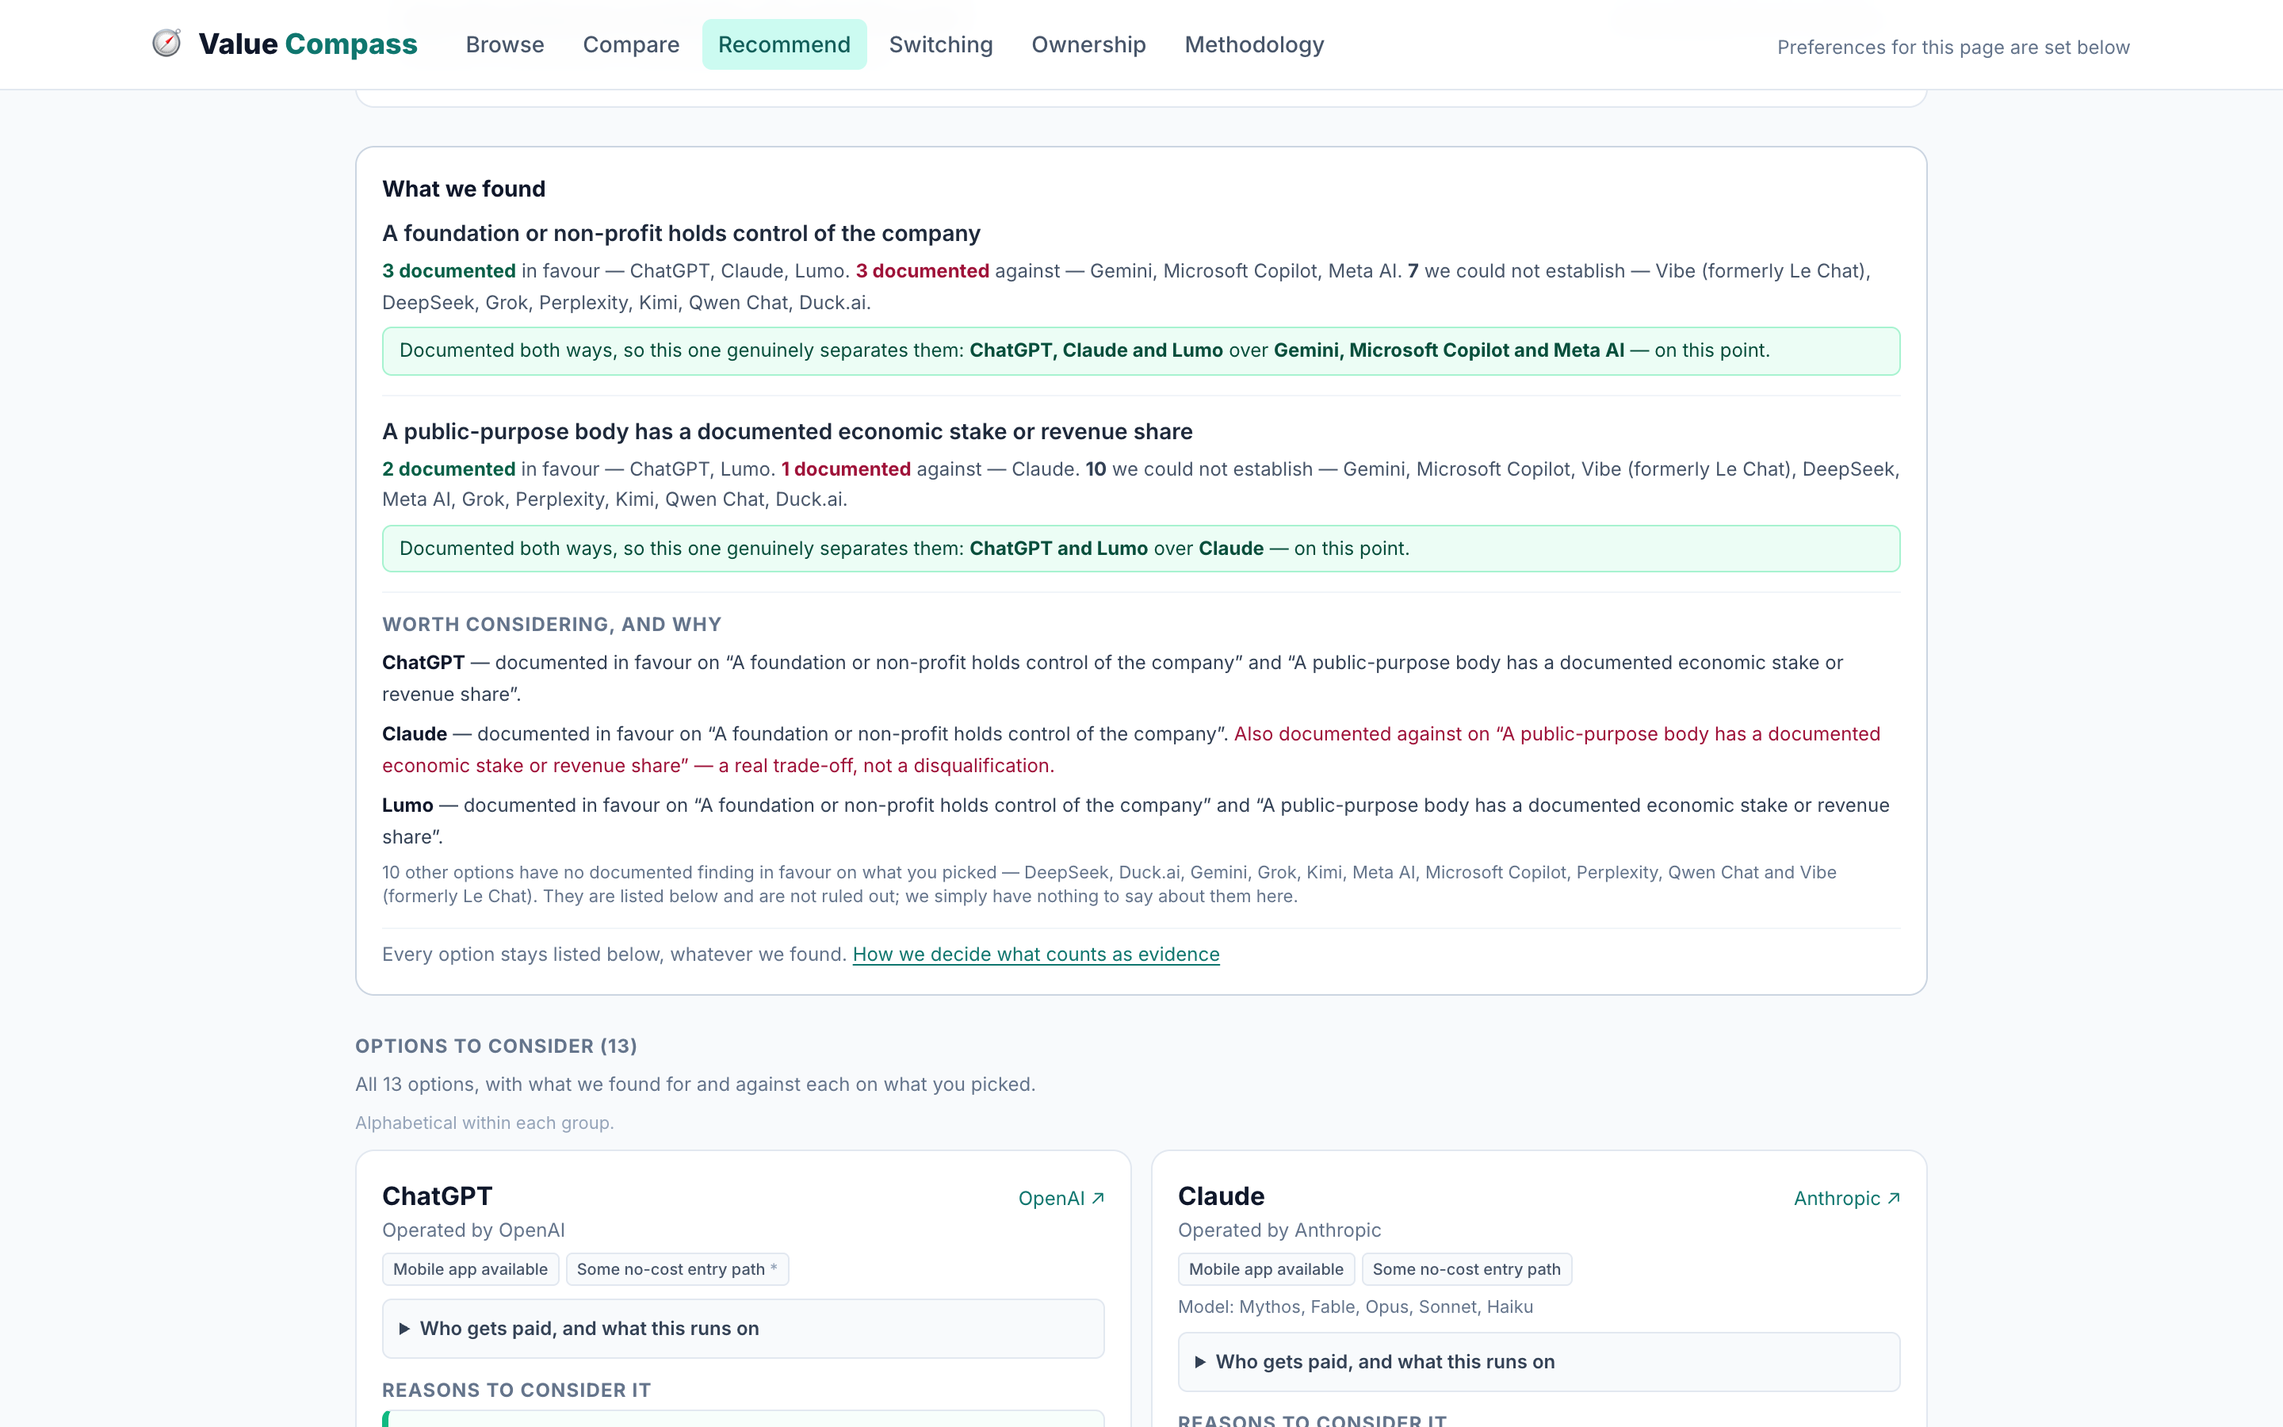
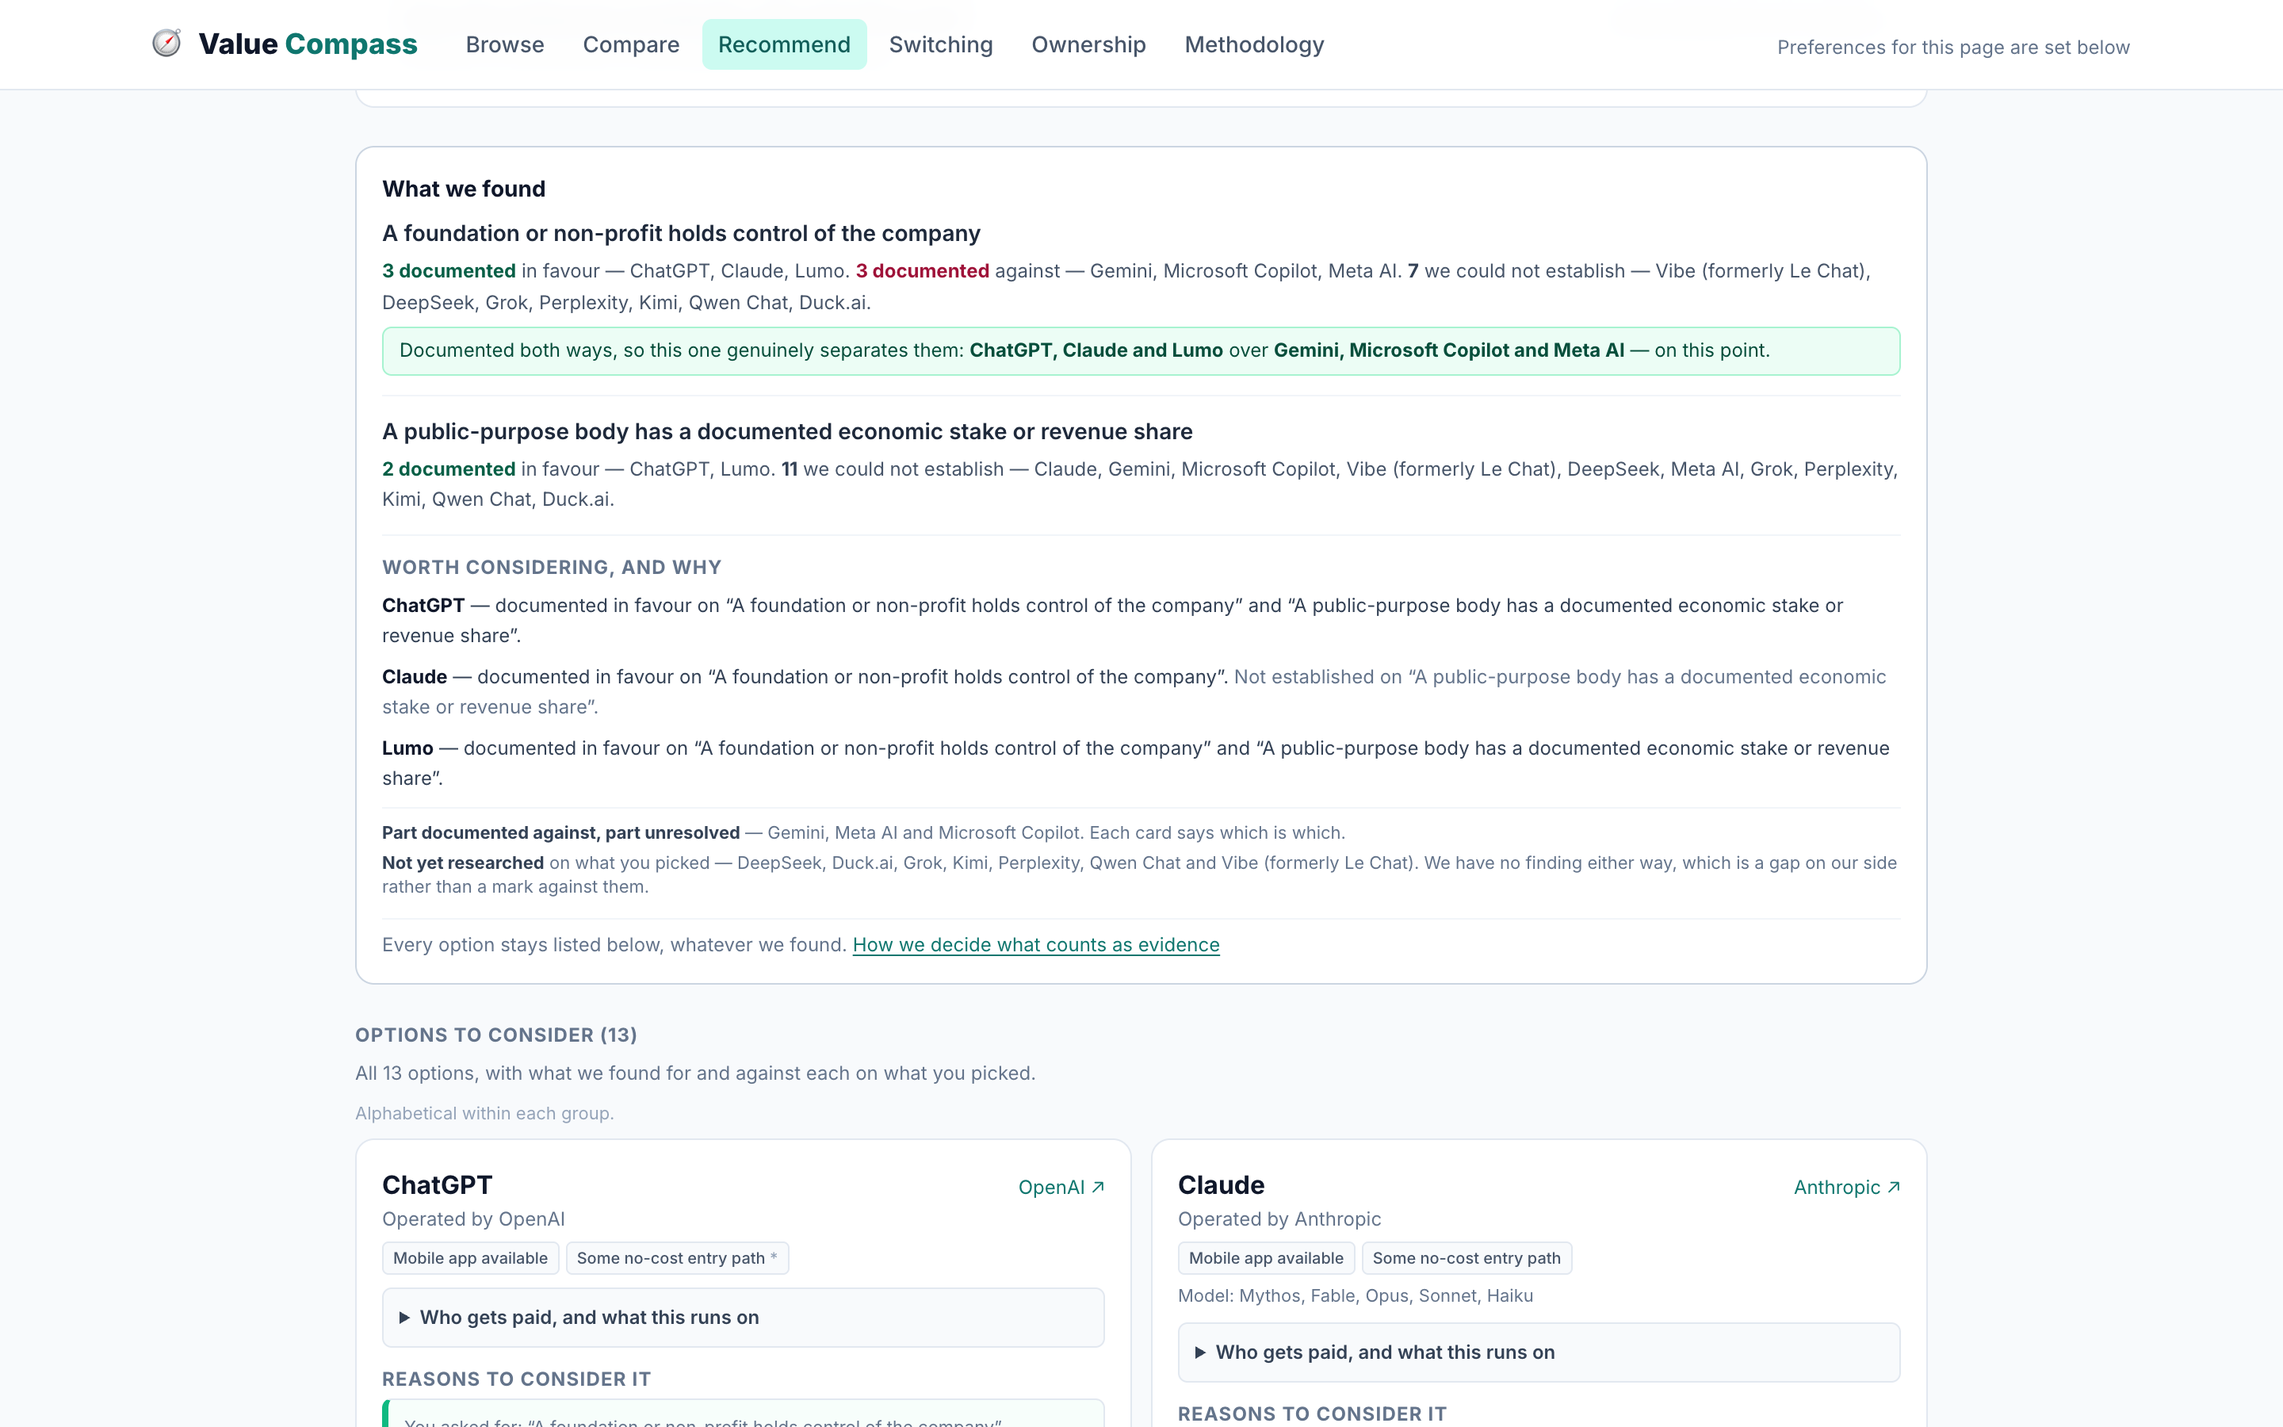
Recapture Hopperlace screenshots after the evidence corrections
Same scenario, same settings, corrected findings. Claude no longer shows a
red trade-off and the economic criterion no longer claims to separate the
options -- two documented in favour, eleven unresolved.

The note records what changed and drops the previous framing that the
unknowns were themselves the product's value.

diff --git a/docs/handoff/hopperlace/CAPTURE-NOTE.md b/docs/handoff/hopperlace/CAPTURE-NOTE.md
@@ -5,79 +5,95 @@
 | | |
 |---|---|
 | **URL** | https://www.valuecompass.ai/#/recommend |
-| **Captured** | 2026-09-22 |
-| **Version** | The live deployed build. Nothing app-related exists only locally — the one unpushed commit is a research-roadmap note with no `src/` changes. |
+| **Captured** | 2026-09-22, after the evidence corrections below |
+| **Version** | The live deployed build, bundle `index-7DTGXexv.js`. No app code exists only locally. |
 | **Viewport** | 1440 × 900 CSS pixels, 100% zoom |
-| **Files** | 2880 × 1800 PNG (true 2× device pixel ratio, not upscaled) |
-| **Method** | Headless Chrome driving the live site. The only interaction was clicking the same controls a visitor clicks. No DOM edits, no injected CSS, no cursor or tooltip in frame. |
+| **Files** | 2880 × 1800 PNG, true 2× device pixel ratio |
+| **Method** | Headless Chrome on the live site. The only interaction was clicking the controls a visitor clicks. No DOM edits, no injected CSS, no cursor or tooltip in frame. |
 
 ## The example
 
-An ownership and financial-benefit decision, which is the strongest demonstration the
-implemented research currently supports.
-
-**Preferences selected (2):**
+**Preferences selected (2), neither marked must-have:**
 - *A foundation or non-profit holds control of the company*
 - *A public-purpose body has a documented economic stake or revenue share*
 
-**Must-haves: none.** Both are soft preferences, so nothing is ruled out and all 13 options stay
-listed.
+Because both are soft preferences, nothing is ruled out and all 13 options remain listed.
 
-### Why this example
+## What the example now shows
 
-It shows the thing ValueCompass does that a review site cannot: two criteria that sound like the
-same question give **different answers about the same company**.
+**Worth considering: ChatGPT, Claude and Lumo.**
 
-Claude is documented **in favour** on foundation control — Anthropic's Long-Term Benefit Trust
-will elect a majority of the board within four years — and documented **against** on economic
-stake, because that same Trust holds Class T stock explicitly *"designed to insulate the Trustees
-from financial interest in Anthropic."* One source, opposite verdicts, and the page says so rather
-than smoothing it into a score.
+- **ChatGPT** — documented in favour on both. The OpenAI Foundation controls OpenAI Group PBC and
+  holds roughly 26% of the equity.
+- **Lumo** — documented in favour on both. The Proton Foundation is primary shareholder and
+  Proton states 1% of revenues goes to its charitable activities when finances allow.
+- **Claude** — documented in favour on control only. Anthropic states that following its April
+  2026 board appointment, *"Trust-appointed directors now make up a majority of the Board."* The
+  economic question is **not established**.
 
-No winner is declared. Three options are worth considering and the trade-off is stated in the
-open.
+The first criterion is documented on both sides and separates the options. The second is not: two
+options are documented in favour and eleven are unresolved, so the page does not claim it
+separates anything.
+
+## Corrections made before this capture
+
+These changed the result, and the changes are visible in the images.
+
+1. **Present control, not a future commitment.** Claude's control finding previously cited a 2023
+   statement that the Trust *"will elect a majority of the board within 4 years"*. That is a
+   projection. It now rests on Anthropic's April 2026 statement of present fact. Same verdict,
+   sound basis.
+2. **A narrow fact no longer carries a broad negative.** Claude was previously marked **documented
+   against** on the economic question because its Trust's Class T stock carries no economic
+   rights. That is a fact about one trust; the criterion asks whether *any* public-purpose body
+   holds a stake. The narrow finding is kept and the verdict is now **unresolved**. Consequently a
+   must-have on this criterion would exclude nobody, where it previously excluded Claude.
+3. **The criterion's wording matched what it asks.** It previously said money *"actually reaches"*
+   a non-profit while accepting an ownership interest. It now reads: *whether a public-purpose
+   organisation holds a financial interest in the business or has a documented right to a share of
+   revenue.* Ownership interests, revenue-sharing rights and actual payments stay separate in the
+   evidence.
+4. **The summary says why an option is not listed.** It previously said options without a positive
+   finding were ones we *"simply have nothing to say about"*. It now distinguishes **part
+   documented against, part unresolved** (Gemini, Meta AI, Microsoft Copilot) from **not yet
+   researched** (DeepSeek, Duck.ai, Grok, Kimi, Perplexity, Qwen Chat, Vibe).
+
+**Compared with the previous capture**, Claude no longer shows a red trade-off, and the second
+criterion no longer carries a "separates them" banner. The example is less dramatic and better
+supported.
 
 ## The images
 
 | File | Use | Shows |
 |---|---|---|
-| `valuecompass-01-choosing-priorities.png` | **Hopperlace hero** | The page identity, the plain-language question "Who am I empowering with this choice?", its sub-questions, and two ticked preferences with per-criterion coverage |
-| `valuecompass-02-seeing-the-advice.png` | **ValueCompass section** | The full recommendation summary: both criteria documented on each side, "Worth considering, and why", and Claude's trade-off in red |
-| `valuecompass-03-evidence-on-the-cards.png` | ValueCompass section, supporting | ChatGPT and Claude side by side with "Who gets paid, and what this runs on" expanded, and the documented alignment and conflict quoted from source |
+| `valuecompass-01-choosing-priorities.png` | **Hopperlace hero** | Page identity, the question "Who am I empowering with this choice?", its sub-questions, two ticked preferences with per-criterion coverage |
+| `valuecompass-02-seeing-the-advice.png` | **ValueCompass section** | The recommendation summary, the three options worth considering, and the breakdown of why the others are not listed |
+| `valuecompass-03-evidence-on-the-cards.png` | ValueCompass section, supporting | ChatGPT and Claude side by side with "Who gets paid, and what this runs on" expanded, and each finding quoted from source |
 
 **Why three rather than two.** The summary and the card evidence do not fit legibly in one
-1440 × 900 frame. Per the brief, they were captured separately rather than shrunk. Use 01 and 02
-as the pair if only two are needed; 03 is the strongest single image for depth.
+1440 × 900 frame, so they were captured separately rather than scaled down. Use 01 and 02 as the
+complementary pair; 03 carries the most detail.
 
-### Suggested pairing
+## Uncertainty visible in these images
 
-01 answers *"what do I ask?"* and 02 answers *"what do I learn?"* — that is the complementary pair.
-If the hero needs the more visually distinctive image, 03 has the most colour and the clearest
-side-by-side contrast.
+Please do not crop these out — removing them would change what the images claim.
 
-## Limitations visible in these images — do not crop them out
-
-These are real and deliberate. They are the product's argument, not blemishes.
-
-1. **Most options are unknown.** The summary states *7 we could not establish* on control and
-   *10 we could not establish* on economic stake. Only 3 and 2 of 13 respectively are documented
-   in favour.
-2. **Ten options have nothing to say.** *"10 other options have no documented finding in favour on
-   what you picked … they are not ruled out; we simply have nothing to say about them here."*
-3. **Named unknowns on every card.** ChatGPT's reads *"We have not established: Whether OpenAI
-   distributes profits at all, and so whether the Foundation's stake ever pays out."*
-4. **The pilot's own framing.** The header carries `ONE CATEGORY · RESEARCHED PILOT` and states
-   *"There is no overall score here and nothing has been tested for quality."*
-5. **Some coverage is second-hand.** The asterisk on ChatGPT's *"Some no-cost entry path"* tag
-   marks a capability confirmed only from secondary sources.
+- Seven options are unestablished on the control criterion; eleven on the economic criterion.
+- Claude's card carries a **"What we could not check"** section, not a negative finding.
+- ChatGPT's relationship block names what is open: *whether OpenAI distributes profits at all, and
+  so whether the Foundation's stake ever pays out.*
+- The header carries `ONE CATEGORY · RESEARCHED PILOT` and states there is no overall score and
+  nothing has been tested for quality.
+- The asterisk on ChatGPT's *"Some no-cost entry path"* marks a capability confirmed only from
+  secondary sources.
 
 ## One thing a designer should know
 
 The header reads *"Preferences for this page are set below"* rather than showing site-wide
-settings, because this page holds its own state. That is intentional and not placeholder text.
+settings, because this page holds its own state. Intentional, not placeholder text.
 
 ## Reproducing
 
-The capture script is not committed — it lives outside the repo and drives the live site through
-headless Chrome. To recapture, open the URL, expand *"Who am I empowering with this choice?"*,
-tick the two preferences named above, and screenshot at 1440 × 900 with a device pixel ratio of 2.
+Open the URL, expand *"Who am I empowering with this choice?"*, tick the two preferences named
+above, leave both must-have boxes clear, and screenshot at 1440 × 900 with a device pixel ratio
+of 2.

diff --git a/docs/handoff/hopperlace 2/CAPTURE-NOTE.md b/docs/handoff/hopperlace 2/CAPTURE-NOTE.md
@@ -1,0 +1,83 @@
+# ValueCompass screenshots — Hopperlace redesign handoff
+
+## Capture details
+
+| | |
+|---|---|
+| **URL** | https://www.valuecompass.ai/#/recommend |
+| **Captured** | 2026-09-22 |
+| **Version** | The live deployed build. Nothing app-related exists only locally — the one unpushed commit is a research-roadmap note with no `src/` changes. |
+| **Viewport** | 1440 × 900 CSS pixels, 100% zoom |
+| **Files** | 2880 × 1800 PNG (true 2× device pixel ratio, not upscaled) |
+| **Method** | Headless Chrome driving the live site. The only interaction was clicking the same controls a visitor clicks. No DOM edits, no injected CSS, no cursor or tooltip in frame. |
+
+## The example
+
+An ownership and financial-benefit decision, which is the strongest demonstration the
+implemented research currently supports.
+
+**Preferences selected (2):**
+- *A foundation or non-profit holds control of the company*
+- *A public-purpose body has a documented economic stake or revenue share*
+
+**Must-haves: none.** Both are soft preferences, so nothing is ruled out and all 13 options stay
+listed.
+
+### Why this example
+
+It shows the thing ValueCompass does that a review site cannot: two criteria that sound like the
+same question give **different answers about the same company**.
+
+Claude is documented **in favour** on foundation control — Anthropic's Long-Term Benefit Trust
+will elect a majority of the board within four years — and documented **against** on economic
+stake, because that same Trust holds Class T stock explicitly *"designed to insulate the Trustees
+from financial interest in Anthropic."* One source, opposite verdicts, and the page says so rather
+than smoothing it into a score.
+
+No winner is declared. Three options are worth considering and the trade-off is stated in the
+open.
+
+## The images
+
+| File | Use | Shows |
+|---|---|---|
+| `valuecompass-01-choosing-priorities.png` | **Hopperlace hero** | The page identity, the plain-language question "Who am I empowering with this choice?", its sub-questions, and two ticked preferences with per-criterion coverage |
+| `valuecompass-02-seeing-the-advice.png` | **ValueCompass section** | The full recommendation summary: both criteria documented on each side, "Worth considering, and why", and Claude's trade-off in red |
+| `valuecompass-03-evidence-on-the-cards.png` | ValueCompass section, supporting | ChatGPT and Claude side by side with "Who gets paid, and what this runs on" expanded, and the documented alignment and conflict quoted from source |
+
+**Why three rather than two.** The summary and the card evidence do not fit legibly in one
+1440 × 900 frame. Per the brief, they were captured separately rather than shrunk. Use 01 and 02
+as the pair if only two are needed; 03 is the strongest single image for depth.
+
+### Suggested pairing
+
+01 answers *"what do I ask?"* and 02 answers *"what do I learn?"* — that is the complementary pair.
+If the hero needs the more visually distinctive image, 03 has the most colour and the clearest
+side-by-side contrast.
+
+## Limitations visible in these images — do not crop them out
+
+These are real and deliberate. They are the product's argument, not blemishes.
+
+1. **Most options are unknown.** The summary states *7 we could not establish* on control and
+   *10 we could not establish* on economic stake. Only 3 and 2 of 13 respectively are documented
+   in favour.
+2. **Ten options have nothing to say.** *"10 other options have no documented finding in favour on
+   what you picked … they are not ruled out; we simply have nothing to say about them here."*
+3. **Named unknowns on every card.** ChatGPT's reads *"We have not established: Whether OpenAI
+   distributes profits at all, and so whether the Foundation's stake ever pays out."*
+4. **The pilot's own framing.** The header carries `ONE CATEGORY · RESEARCHED PILOT` and states
+   *"There is no overall score here and nothing has been tested for quality."*
+5. **Some coverage is second-hand.** The asterisk on ChatGPT's *"Some no-cost entry path"* tag
+   marks a capability confirmed only from secondary sources.
+
+## One thing a designer should know
+
+The header reads *"Preferences for this page are set below"* rather than showing site-wide
+settings, because this page holds its own state. That is intentional and not placeholder text.
+
+## Reproducing
+
+The capture script is not committed — it lives outside the repo and drives the live site through
+headless Chrome. To recapture, open the URL, expand *"Who am I empowering with this choice?"*,
+tick the two preferences named above, and screenshot at 1440 × 900 with a device pixel ratio of 2.
